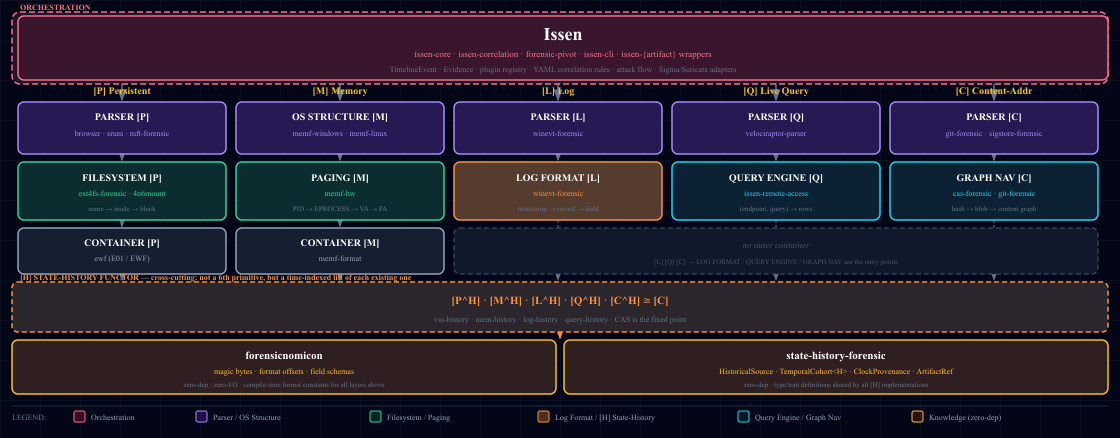
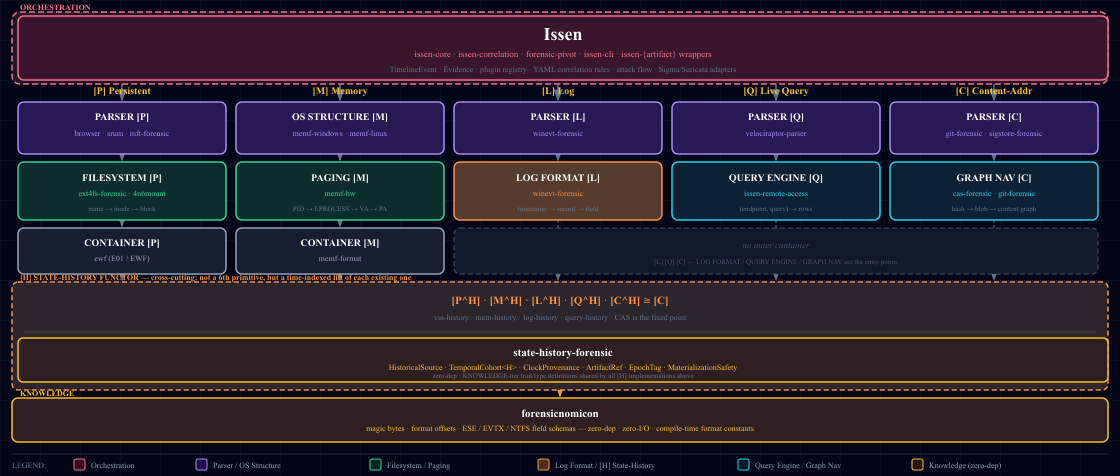
fix(docs): move state-history-forensic into [H] strip — same visual layer
state-history-forensic defines the HistoricalSource/TemporalCohort<H> traits
used by all [H] implementations. Placing it in the KNOWLEDGE row made it
visually disconnected from the [H] strip above it.

Fix: expand the [H] strip to contain state-history-forensic as a sub-box,
separated from the implementation row by a hairline. forensicnomicon is now
the sole full-width KNOWLEDGE box. The amber border on the sub-box preserves
its KNOWLEDGE-tier identity (zero-dep, compile-time) within the [H] layer.

diff --git a/docs/architecture-diagram.html b/docs/architecture-diagram.html
@@ -53,7 +53,7 @@
   Rows: ORCH(12-84) · PARSER(102-154) · NAVIGATION(162-220) · CONTAINER(228-274) · [H](282-332) · KNOWLEDGE(340-394)
   Legend: 408+
 -->
-<svg viewBox="0 0 1120 438" xmlns="http://www.w3.org/2000/svg"
+<svg viewBox="0 0 1120 476" xmlns="http://www.w3.org/2000/svg"
      style="width:100%;height:auto;font-family:'JetBrains Mono',monospace;">
   <defs>
     <pattern id="grid" width="40" height="40" patternUnits="userSpaceOnUse">
@@ -67,8 +67,8 @@
     </marker>
   </defs>
 
-  <rect width="1120" height="438" fill="#020617"/>
-  <rect width="1120" height="438" fill="url(#grid)"/>
+  <rect width="1120" height="476" fill="#020617"/>
+  <rect width="1120" height="476" fill="url(#grid)"/>
 
   <!-- ════ ARROWS (behind all boxes) ════ -->
 
@@ -99,8 +99,8 @@
   <line x1="122" y1="274" x2="122" y2="280" stroke="#64748b" stroke-width="1.5" marker-end="url(#arr)"/>
   <line x1="340" y1="274" x2="340" y2="280" stroke="#64748b" stroke-width="1.5" marker-end="url(#arr)"/>
 
-  <!-- [H] → KNOWLEDGE -->
-  <line x1="560" y1="332" x2="560" y2="338" stroke="#fb923c" stroke-width="1.5" marker-end="url(#arr-orange)"/>
+  <!-- [H] → KNOWLEDGE (forensicnomicon) -->
+  <line x1="560" y1="390" x2="560" y2="396" stroke="#fb923c" stroke-width="1.5" marker-end="url(#arr-orange)"/>
 
   <!-- ════ ORCHESTRATION ════ -->
 
@@ -204,56 +204,61 @@
   <text x="776" y="248" fill="#475569" font-size="9"  font-style="italic" text-anchor="middle">no outer container</text>
   <text x="776" y="264" fill="#475569" font-size="7"  text-anchor="middle">[L] [Q] [C] — LOG FORMAT / QUERY ENGINE / GRAPH NAV are the entry points</text>
 
-  <!-- ════ [H] STATE-HISTORY STRIP  y=282, h=50, bottom=332 ════ -->
+  <!-- ════ [H] STATE-HISTORY STRIP  y=282, h=108, bottom=390 ════ -->
+  <!--      Outer strip contains both the implementations and state-history-forensic (the trait defs) -->
 
-  <rect x="12" y="282" width="1096" height="50" rx="6" fill="#0f172a"/>
-  <rect x="12" y="282" width="1096" height="50" rx="6"
+  <rect x="12" y="282" width="1096" height="108" rx="6" fill="#0f172a"/>
+  <rect x="12" y="282" width="1096" height="108" rx="6"
         fill="rgba(251,146,60,0.12)" stroke="#fb923c" stroke-width="1.5" stroke-dasharray="5,3"/>
   <text x="20" y="280" fill="#fb923c" font-size="8" font-weight="600">[H] STATE-HISTORY FUNCTOR — cross-cutting: not a 6th primitive, but a time-indexed lift of each existing one</text>
 
+  <!-- Implementations row -->
   <text x="560" y="304" fill="#fb923c" font-size="11" font-weight="600" text-anchor="middle">[P^H]  ·  [M^H]  ·  [L^H]  ·  [Q^H]  ·  [C^H] ≅ [C]</text>
-  <text x="560" y="322" fill="#64748b" font-size="8"  text-anchor="middle">vss-history · mem-history · log-history · query-history · CAS is the fixed point</text>
+  <text x="560" y="320" fill="#64748b" font-size="8"  text-anchor="middle">vss-history · mem-history · log-history · query-history · CAS is the fixed point</text>
 
-  <!-- ════ KNOWLEDGE  y=340, h=54, bottom=394 ════ -->
+  <!-- Separator -->
+  <line x1="24" y1="332" x2="1096" y2="332" stroke="#fb923c" stroke-width="0.5" opacity="0.4"/>
 
-  <!-- forensicnomicon -->
-  <rect x="12"  y="340" width="544" height="54" rx="6" fill="#0f172a"/>
-  <rect x="12"  y="340" width="544" height="54" rx="6"
+  <!-- state-history-forensic sub-box (trait definitions that all [H] implementations depend on) -->
+  <rect x="18" y="338" width="1090" height="44" rx="5" fill="#0f172a"/>
+  <rect x="18" y="338" width="1090" height="44" rx="5"
         fill="rgba(120,53,15,0.3)" stroke="#fbbf24" stroke-width="1.5"/>
-  <text x="284" y="359" fill="white"   font-size="11" font-weight="600" text-anchor="middle">forensicnomicon</text>
-  <text x="284" y="374" fill="#fbbf24" font-size="8"  text-anchor="middle">magic bytes · format offsets · field schemas</text>
-  <text x="284" y="387" fill="#64748b" font-size="7"  text-anchor="middle">zero-dep · zero-I/O · compile-time format constants for all layers above</text>
+  <text x="563" y="356" fill="white"   font-size="11" font-weight="600" text-anchor="middle">state-history-forensic</text>
+  <text x="563" y="370" fill="#fbbf24" font-size="8"  text-anchor="middle">HistoricalSource · TemporalCohort&lt;H&gt; · ClockProvenance · ArtifactRef · EpochTag · MaterializationSafety</text>
+  <text x="563" y="378" fill="#64748b" font-size="7"  text-anchor="middle">zero-dep · KNOWLEDGE-tier trait/type definitions shared by all [H] implementations above</text>
 
-  <!-- state-history-forensic -->
-  <rect x="564" y="340" width="544" height="54" rx="6" fill="#0f172a"/>
-  <rect x="564" y="340" width="544" height="54" rx="6"
+  <!-- ════ KNOWLEDGE  y=398, h=44, bottom=442 ════ -->
+  <!--      Only forensicnomicon here — state-history-forensic lives inside [H] above -->
+
+  <rect x="12"  y="398" width="1096" height="44" rx="6" fill="#0f172a"/>
+  <rect x="12"  y="398" width="1096" height="44" rx="6"
         fill="rgba(120,53,15,0.3)" stroke="#fbbf24" stroke-width="1.5"/>
-  <text x="836" y="359" fill="white"   font-size="11" font-weight="600" text-anchor="middle">state-history-forensic</text>
-  <text x="836" y="374" fill="#fbbf24" font-size="8"  text-anchor="middle">HistoricalSource · TemporalCohort&lt;H&gt; · ClockProvenance · ArtifactRef</text>
-  <text x="836" y="387" fill="#64748b" font-size="7"  text-anchor="middle">zero-dep · type/trait definitions shared by all [H] implementations</text>
+  <text x="20" y="396" fill="#fbbf24" font-size="8" font-weight="600">KNOWLEDGE</text>
+  <text x="560" y="417" fill="white"   font-size="11" font-weight="600" text-anchor="middle">forensicnomicon</text>
+  <text x="560" y="431" fill="#fbbf24" font-size="8"  text-anchor="middle">magic bytes · format offsets · ESE / EVTX / NTFS field schemas — zero-dep · zero-I/O · compile-time format constants</text>
 
-  <!-- ════ LEGEND  (below KNOWLEDGE which ends at y=394) ════ -->
+  <!-- ════ LEGEND  (below KNOWLEDGE which ends at y=442) ════ -->
 
-  <line x1="12" y1="406" x2="1108" y2="406" stroke="#1e293b" stroke-width="1"/>
-  <text x="12" y="420" fill="#64748b" font-size="8">LEGEND:</text>
+  <line x1="12" y1="454" x2="1108" y2="454" stroke="#1e293b" stroke-width="1"/>
+  <text x="12" y="468" fill="#64748b" font-size="8">LEGEND:</text>
 
-  <rect x="74"  y="411" width="11" height="11" rx="2" fill="rgba(136,19,55,0.4)"  stroke="#fb7185"  stroke-width="1"/>
-  <text x="91"  y="420" fill="#94a3b8" font-size="8">Orchestration</text>
+  <rect x="74"  y="459" width="11" height="11" rx="2" fill="rgba(136,19,55,0.4)"  stroke="#fb7185"  stroke-width="1"/>
+  <text x="91"  y="468" fill="#94a3b8" font-size="8">Orchestration</text>
 
-  <rect x="196" y="411" width="11" height="11" rx="2" fill="rgba(76,29,149,0.4)"  stroke="#a78bfa"  stroke-width="1"/>
-  <text x="213" y="420" fill="#94a3b8" font-size="8">Parser / OS Structure</text>
+  <rect x="196" y="459" width="11" height="11" rx="2" fill="rgba(76,29,149,0.4)"  stroke="#a78bfa"  stroke-width="1"/>
+  <text x="213" y="468" fill="#94a3b8" font-size="8">Parser / OS Structure</text>
 
-  <rect x="370" y="411" width="11" height="11" rx="2" fill="rgba(6,78,59,0.4)"    stroke="#34d399"  stroke-width="1"/>
-  <text x="387" y="420" fill="#94a3b8" font-size="8">Filesystem / Paging</text>
+  <rect x="370" y="459" width="11" height="11" rx="2" fill="rgba(6,78,59,0.4)"    stroke="#34d399"  stroke-width="1"/>
+  <text x="387" y="468" fill="#94a3b8" font-size="8">Filesystem / Paging</text>
 
-  <rect x="538" y="411" width="11" height="11" rx="2" fill="rgba(251,146,60,0.3)" stroke="#fb923c"  stroke-width="1"/>
-  <text x="555" y="420" fill="#94a3b8" font-size="8">Log Format / [H] State-History</text>
+  <rect x="538" y="459" width="11" height="11" rx="2" fill="rgba(251,146,60,0.3)" stroke="#fb923c"  stroke-width="1"/>
+  <text x="555" y="468" fill="#94a3b8" font-size="8">Log Format / [H] State-History</text>
 
-  <rect x="738" y="411" width="11" height="11" rx="2" fill="rgba(8,51,68,0.4)"    stroke="#22d3ee"  stroke-width="1"/>
-  <text x="755" y="420" fill="#94a3b8" font-size="8">Query Engine / Graph Nav</text>
+  <rect x="738" y="459" width="11" height="11" rx="2" fill="rgba(8,51,68,0.4)"    stroke="#22d3ee"  stroke-width="1"/>
+  <text x="755" y="468" fill="#94a3b8" font-size="8">Query Engine / Graph Nav</text>
 
-  <rect x="912" y="411" width="11" height="11" rx="2" fill="rgba(120,53,15,0.3)"  stroke="#fbbf24"  stroke-width="1"/>
-  <text x="929" y="420" fill="#94a3b8" font-size="8">Knowledge (zero-dep)</text>
+  <rect x="912" y="459" width="11" height="11" rx="2" fill="rgba(120,53,15,0.3)"  stroke="#fbbf24"  stroke-width="1"/>
+  <text x="929" y="468" fill="#94a3b8" font-size="8">Knowledge (zero-dep)</text>
 
 </svg>
 </div>